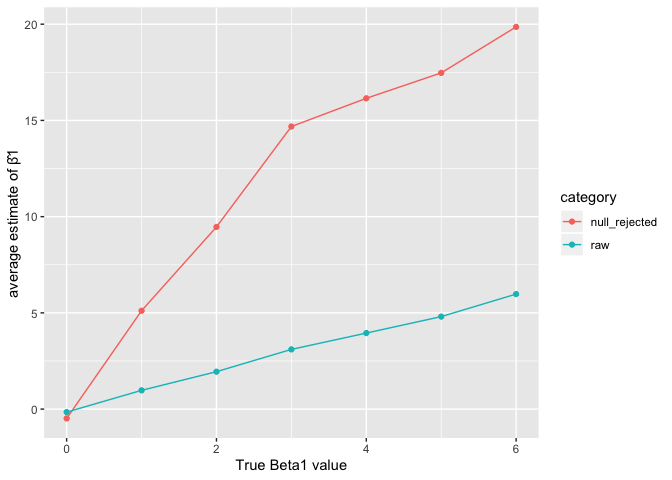
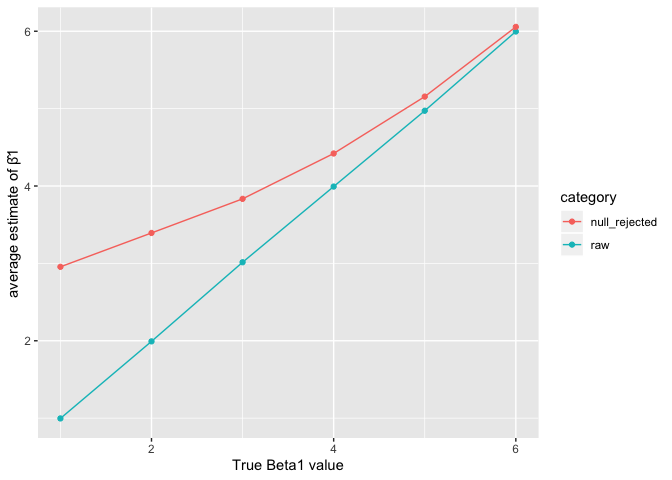
done commenting

diff --git a/hs3163_hw5.md b/hs3163_hw5.md
@@ -43,25 +43,9 @@ fill_NA = function(vector){
 }
 
 ##Do everything across column and merge the output into dataset.
-iris_without_missing<-map_df(iris_with_missing,fill_NA)
 
-iris_without_missing
+iris_without_missing<-map_df(iris_with_missing,fill_NA)%>%janitor::clean_names()
 ```
-
-    ## # A tibble: 150 x 5
-    ##    Sepal.Length Sepal.Width Petal.Length Petal.Width Species
-    ##           <dbl>       <dbl>        <dbl>       <dbl> <chr>  
-    ##  1          5.1         3.5          1.4         0.2 setosa 
-    ##  2          4.9         3            1.4         0.2 setosa 
-    ##  3          4.7         3.2          1.3         0.2 setosa 
-    ##  4          4.6         3.1          1.5         1.2 setosa 
-    ##  5          5           3.6          1.4         0.2 setosa 
-    ##  6          5.4         3.9          1.7         0.4 setosa 
-    ##  7          5.8         3.4          1.4         0.3 setosa 
-    ##  8          5           3.4          1.5         0.2 setosa 
-    ##  9          4.4         2.9          1.4         0.2 setosa 
-    ## 10          4.9         3.1          3.8         0.1 setosa 
-    ## # … with 140 more rows
 
 ## Problem 2
 
@@ -108,7 +92,7 @@ weekly_obs<-map_df(file_list,read_and_label)%>%
   mutate(arm = as.factor(arm), weeks = as.factor(weeks))
 
 ##Plot the data
-weekly_obs%>%
+weekly_obs%>%mutate(arm = recode(arm,"con" = "control", "exp" = "experiment"))%>%
   ##Geom line only work for continous data
   ggplot(aes(x = as.numeric(weeks),y = obs,color = subject_id))+
   geom_line()+
@@ -118,6 +102,11 @@ weekly_obs%>%
 ```
 
 ![](hs3163_hw5_files/figure-gfm/Pb%202-1.png)<!-- -->
+
+According to the graph, for the experiment group, the observation value
+increase as time passses while that of the control group remains the
+same. This indicates the treatment may have a cumulatable postive impact
+on the ther observed variable.
 
 ## Problem 3
 
@@ -132,12 +121,13 @@ draws from a standard Normal distribution Fix β0=2 Fix σ2=50
 
 ``` r
 ##Define function: Beta1 generation
-beta_generation= function(n =30, beta0 = 2, beta1 = 0) {
+
+beta_generation= function(n =30, beta0 = 2, beta1 = 0) { 
   
   sim_data = tibble(
     x = rnorm(n, mean = 0, sd = 1),
     ##Sigma^2 for ϵ is 50
-    y = beta0 + beta1 * x + rnorm(n, 0, 50)
+    y = beta0 + beta1 * x + rnorm(n, 0, sqrt(50))
   )
   ##Tidy the lm output
   ls_fit = lm(y ~ x, data = sim_data)%>%broom::tidy()
@@ -185,18 +175,19 @@ Make a plot showing the proportion of times the null was rejected (the
 power of the test) on the y axis and the true value of β2 on the x axis.
 Describe the association between effect size and power.
 
+**Answer** Shown in the following graoh, as the effect size increases,
+the proportion of times the null was rejected increase, and therefore
+the power increases.
+
 ``` r
 ##find proportion of times the null was rejected for each beta_1
-beta_1_sim<-beta_1_sim%>%
+beta_1_sim<-beta_1_sim%>%       
   mutate(
     ##For each dataset in the listcon, check how many of them have p value < 0.05
-    null_rej_porp = map_dbl(beta_1_est,.%>%filter(p_value < 0.05)%>%nrow()),
-    ##changes it into the propotions
-    null_rej_porp = null_rej_porp/10000
-    )
-
+    null_rej_prop = map_dbl(beta_1_est,.%>%filter(p_value < 0.05)%>%nrow())/10000)
+    
 beta_1_sim%>% 
-ggplot(aes(x = beta_1_val,y = null_rej_porp))+
+ggplot(aes(x = beta_1_val,y = null_rej_prop))+
   geom_point()+geom_line()+
   labs(x = "True Beta1 value",
        y = "Proportion of times the null was rejected")
@@ -222,7 +213,7 @@ beta_1_sim<-beta_1_sim%>%
   pivot_longer(names_to = "category", values_to = "average_beta",cols = raw:null_rejected)%>%
     select(-average_beta_est,-average_beta_est_nrej)
 
-beta_1_sim%>% 
+beta_1_sim%>% filter(beta_1_val!= 0)%>%
 ggplot(aes(x = beta_1_val,y = average_beta,color = category ))+
   geom_point()+geom_line()+
   labs(x = "True Beta1 value",
@@ -233,3 +224,11 @@ ggplot(aes(x = beta_1_val,y = average_beta,color = category ))+
 
 Is the sample average of β̂1 across tests for which the null is rejected
 approximately equal to the true value of β1 ? Why or why not
+
+**Answer**
+
+It is not, the sample average of β̂1 across tests for which the null is
+rejected excluded the tests with values closer to 0 than to the true
+value of β1. For the sample average of each β̂1 to be almost equal to
+the true value of β1, The average β1 have to be larger than the true
+value.
